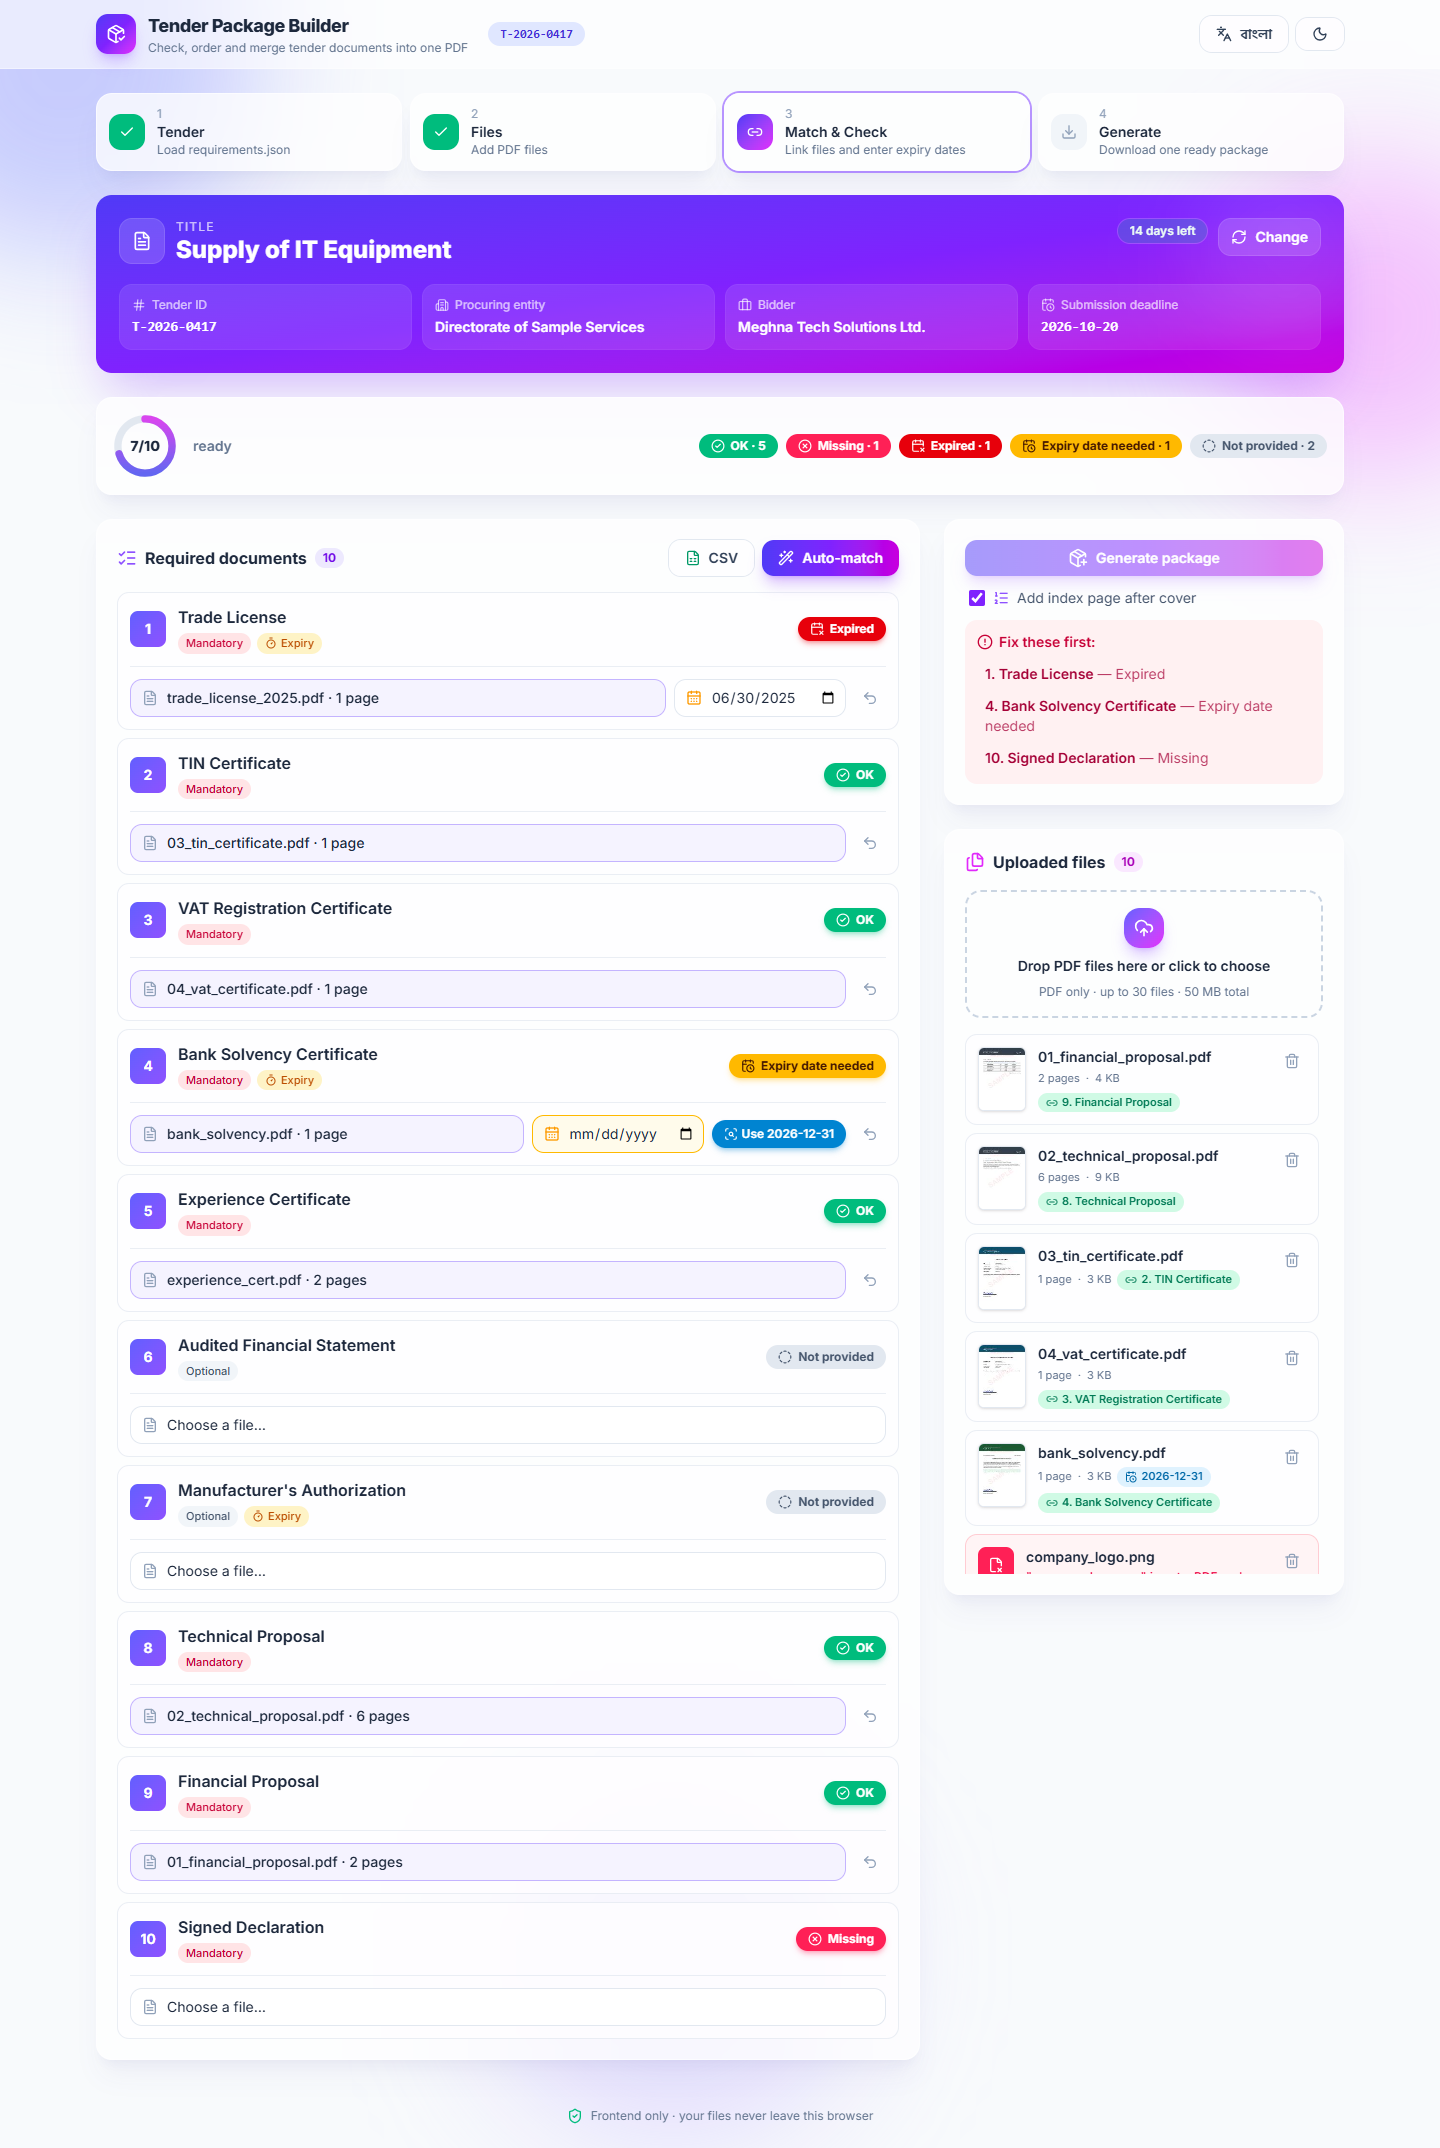
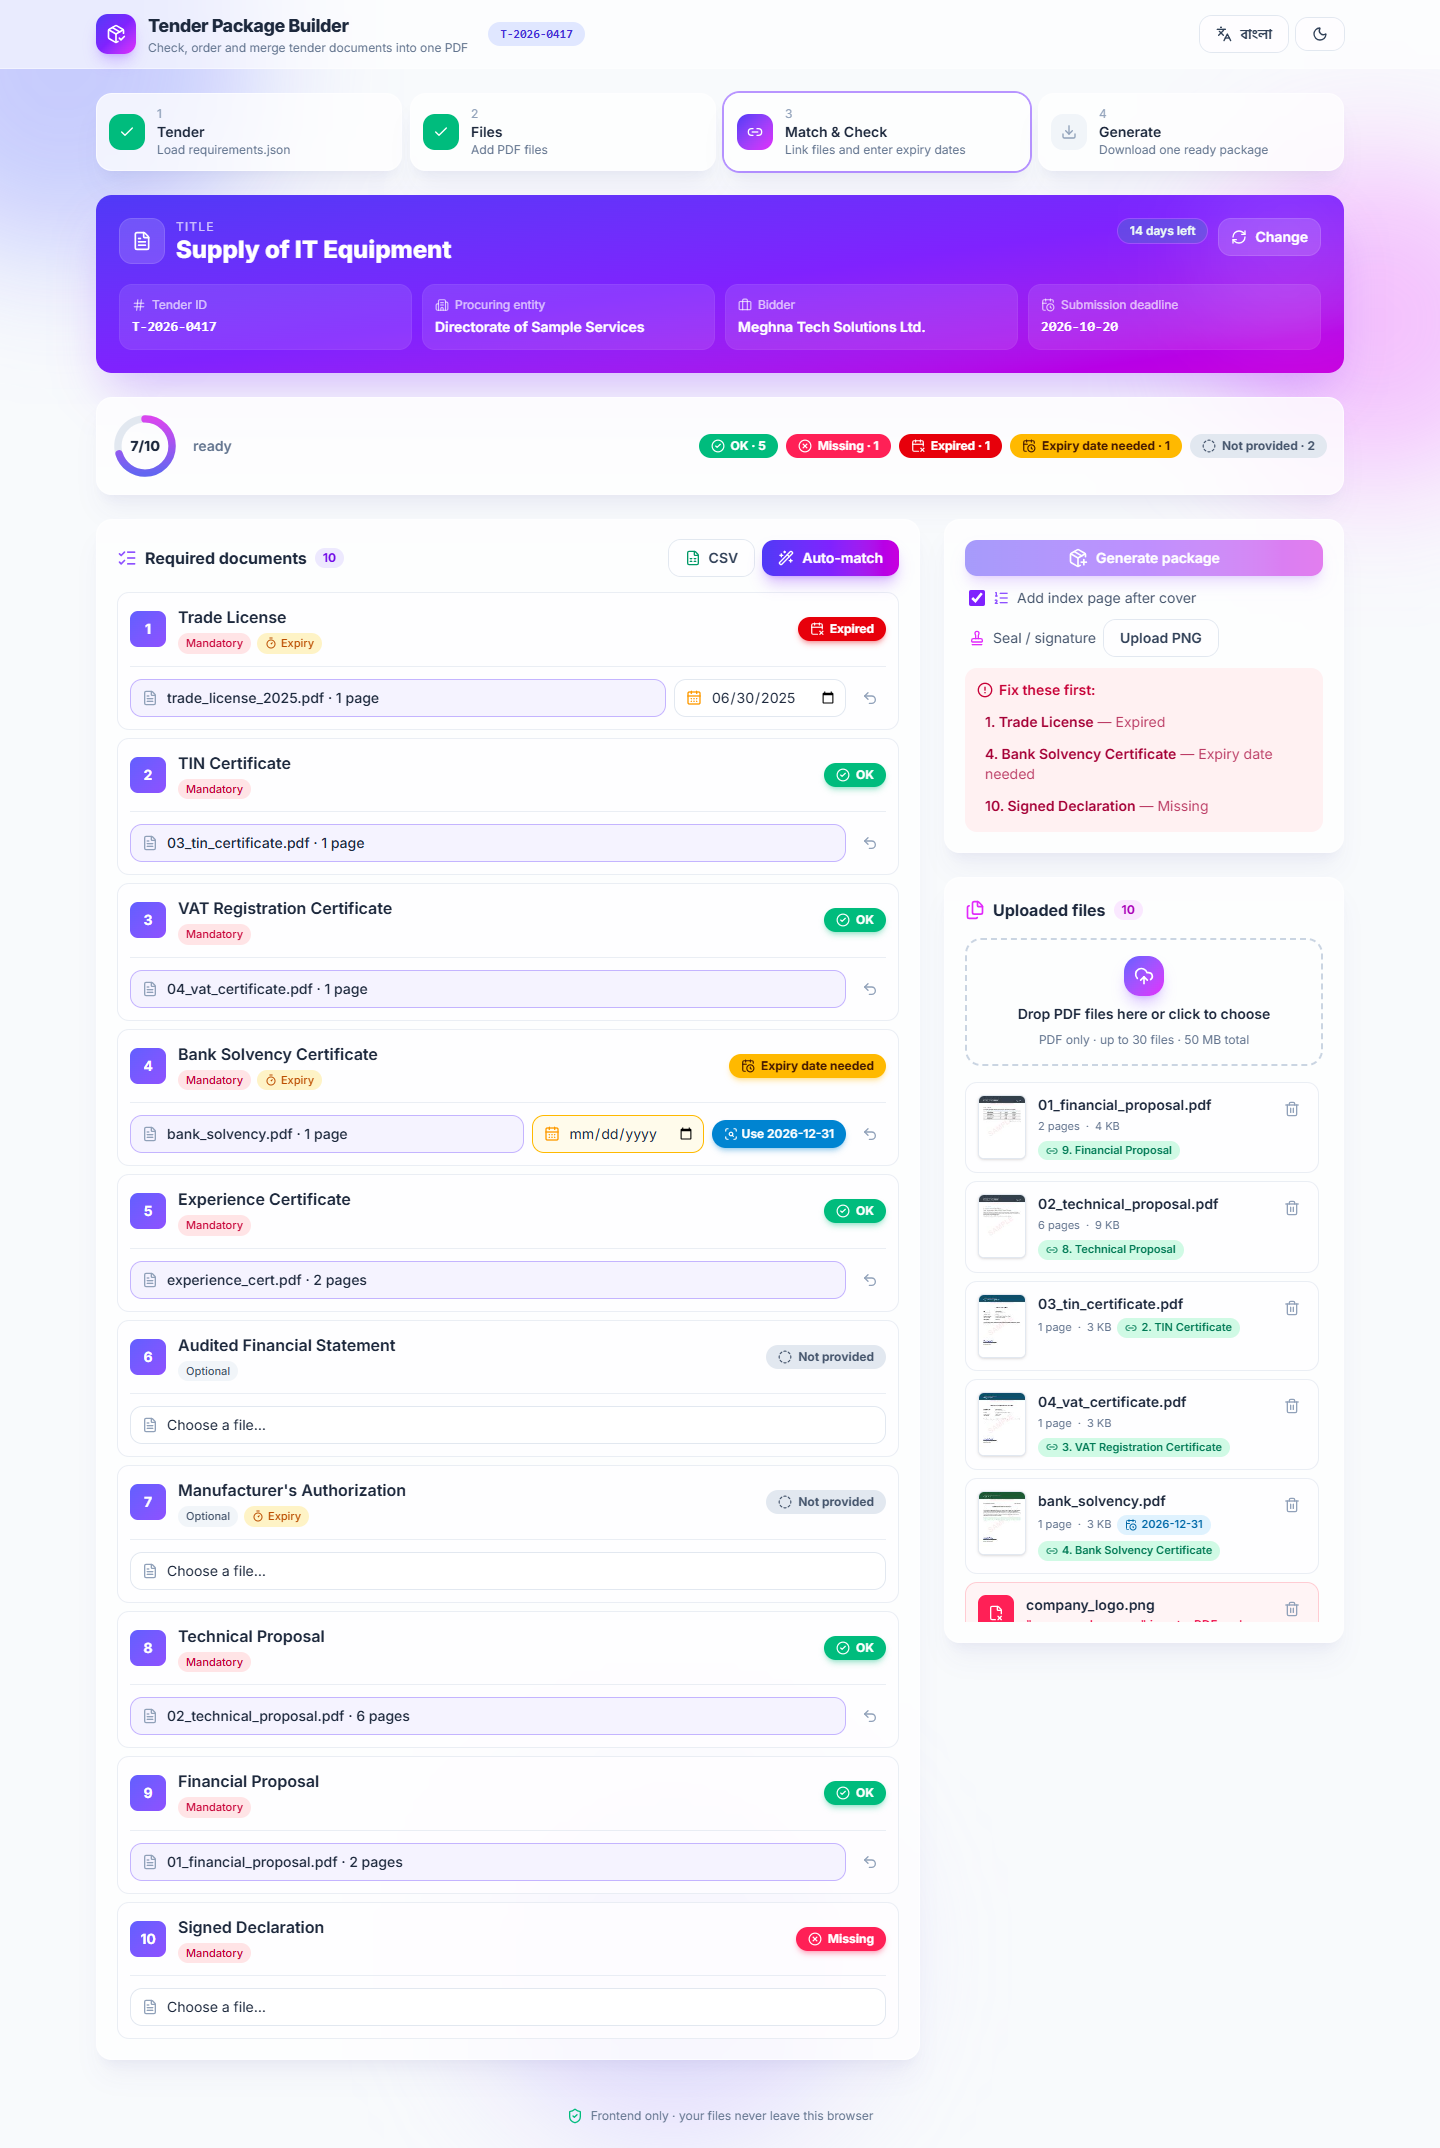
feat: bonus seal/signature - upload PNG (signature-checked), place on last page of each document / all pages / none, bottom-right above footer; screenshots retaken
Prompt: "next" (Bonus: Seal or signature - the user uploads a PNG image and places it on chosen pages)

Changed region(s): [[0.6562, 0.2807, 0.875, 0.7798]]

diff --git a/src/components/GeneratePanel.jsx b/src/components/GeneratePanel.jsx
@@ -1,7 +1,7 @@
-import { AlertCircle, CheckCircle2, Download, Eye, ListOrdered, Loader2, PackageCheck, PackagePlus } from 'lucide-react'
+import { AlertCircle, CheckCircle2, Download, Eye, ListOrdered, Loader2, PackageCheck, PackagePlus, Stamp, X } from 'lucide-react'
 import { useT } from '../i18n.js'
 
-export default function GeneratePanel({ blocked, statuses, busy, result, fileName, onGenerate, onDownload, onPreview, withIndex, onWithIndex }) {
+export default function GeneratePanel({ blocked, statuses, busy, result, fileName, onGenerate, onDownload, onPreview, withIndex, onWithIndex, seal, sealMode, onSeal, onSealMode, onSealRemove }) {
   const { t, lang, num } = useT()
   const ready = blocked.length === 0
 
@@ -22,6 +22,34 @@ export default function GeneratePanel({ blocked, statuses, busy, result, fileNam
         <ListOrdered className="size-4 text-violet-500" />
         {t('withIndex')}
       </label>
+
+      <div className="flex flex-wrap items-center gap-2 rounded-xl px-1 text-sm text-slate-600 dark:text-slate-300">
+        <Stamp className="size-4 text-fuchsia-500" />
+        <span>{t('seal')}</span>
+        {seal ? (
+          <>
+            <img src={seal.url} alt={seal.name} className="h-8 w-8 rounded border border-slate-200 bg-white object-contain dark:border-slate-600" />
+            <select
+              value={sealMode}
+              onChange={(e) => onSealMode(e.target.value)}
+              className="cursor-pointer rounded-lg border border-slate-200 bg-white px-2 py-1 text-xs dark:border-slate-700 dark:bg-slate-900"
+              aria-label={t('sealPages')}
+            >
+              <option value="last">{t('sealLast')}</option>
+              <option value="all">{t('sealAll')}</option>
+              <option value="none">{t('sealNone')}</option>
+            </select>
+            <button onClick={onSealRemove} className="cursor-pointer rounded p-1 text-slate-400 hover:text-rose-600" title={t('remove')} aria-label={t('remove')}>
+              <X className="size-4" />
+            </button>
+          </>
+        ) : (
+          <label className="btn-ghost cursor-pointer px-2.5 py-1 text-xs">
+            {t('sealUpload')}
+            <input type="file" accept="image/png" hidden onChange={(e) => { e.target.files[0] && onSeal([e.target.files[0]]); e.target.value = '' }} />
+          </label>
+        )}
+      </div>
 
       {!ready ? (
         <div className="rounded-xl bg-rose-50 p-3 text-sm dark:bg-rose-500/10">

diff --git a/src/lib/package.js b/src/lib/package.js
@@ -153,7 +153,7 @@ function drawFooter(page, font, text) {
  * withIndex: add an index page after the cover (bonus).
  * Returns { bytes: Uint8Array, totalPages }.
  */
-export async function buildPackage({ tender, requirements, matches, files, generatedOn, withIndex = false, textImage }) {
+export async function buildPackage({ tender, requirements, matches, files, generatedOn, withIndex = false, textImage, seal }) {
   const docs = includedDocs(requirements, matches, files)
   const pdf = await PDFDocument.create()
   pdf.setTitle(`${tender.tender_id} Package`)
@@ -193,6 +193,9 @@ export async function buildPackage({ tender, requirements, matches, files, gener
 
   // Each source page is embedded and scaled into a page of the same size,
   // leaving a blank band at the bottom so the footer never covers content.
+  // Bonus: seal / signature PNG on chosen pages (seal = { bytes, mode: 'all' | 'last' })
+  const sealImg = seal?.bytes && seal.mode !== 'none' ? await pdf.embedPng(seal.bytes) : null
+
   for (const { file } of docs) {
     const src = await PDFDocument.load(file.bytes, { ignoreEncryption: true })
     const embedded = await pdf.embedPages(src.getPages())
@@ -212,6 +215,12 @@ export async function buildPackage({ tender, requirements, matches, files, gener
       else if (angle === 180) page.drawPage(ep, { x: x0 + dw, y: y0 + dh, xScale: s, yScale: s, rotate: { type: 'degrees', angle: 180 } })
       else if (angle === 90) page.drawPage(ep, { x: x0, y: y0 + dh, xScale: s, yScale: s, rotate: { type: 'degrees', angle: -90 } })
       else page.drawPage(ep, { x: x0 + dw, y: y0, xScale: s, yScale: s, rotate: { type: 'degrees', angle: 90 } })
+
+      if (sealImg && (seal.mode === 'all' || i === embedded.length - 1)) {
+        const sw = Math.min(90, w * 0.18)
+        const sh = (sealImg.height / sealImg.width) * sw
+        page.drawImage(sealImg, { x: w - sw - 36, y: FOOTER_BAND + 14, width: sw, height: sh, opacity: 0.92 })
+      }
     })
   }
 

diff --git a/src/App.jsx b/src/App.jsx
@@ -108,14 +108,22 @@ export default function App() {
   const [generating, setGenerating] = useState(false)
   const [withIndex, setWithIndex] = useState(true)
   const [showPreview, setShowPreview] = useState(false)
-  useEffect(() => setResult(null), [data, files, matches, expiry, withIndex])
+  const [seal, setSeal] = useState(null) // { bytes, url, name }
+  const [sealMode, setSealMode] = useState('last')
+  const pickSeal = async ([file]) => {
+    const bytes = new Uint8Array(await file.arrayBuffer())
+    const isPng = [0x89, 0x50, 0x4e, 0x47].every((b, i) => bytes[i] === b)
+    if (!isPng) return toast('error', t('sealNotPng', { name: file.name }))
+    setSeal({ bytes, name: file.name, url: URL.createObjectURL(file) })
+  }
+  useEffect(() => setResult(null), [data, files, matches, expiry, withIndex, seal, sealMode])
   const packageName = data ? `${data.tender.tender_id}_Package.pdf` : ''
 
   const generate = async () => {
     if (blocked.length) return
     setGenerating(true)
     try {
-      const res = await buildPackage({ ...data, matches, files, generatedOn: todayISO(), withIndex, textImage })
+      const res = await buildPackage({ ...data, matches, files, generatedOn: todayISO(), withIndex, textImage, seal: seal && { bytes: seal.bytes, mode: sealMode } })
       setResult(res)
       toast('success', t('generated', { n: res.totalPages }))
     } catch (e) {
@@ -291,6 +299,11 @@ export default function App() {
                   onGenerate={generate}
                   withIndex={withIndex}
                   onWithIndex={setWithIndex}
+                  seal={seal}
+                  sealMode={sealMode}
+                  onSeal={pickSeal}
+                  onSealMode={setSealMode}
+                  onSealRemove={() => setSeal(null)}
                   onDownload={() => downloadBytes(result.bytes, packageName)}
                   onPreview={() => setShowPreview(true)}
                 />

diff --git a/src/i18n.js b/src/i18n.js
@@ -102,6 +102,7 @@ export const dict = {
     sealAll: 'All pages',
     sealLast: 'Last page of each document',
     sealNone: 'None',
+    sealNotPng: '"{name}" is not a PNG image.',
     reset: 'Start over',
   },
   bn: {
@@ -199,6 +200,7 @@ export const dict = {
     sealAll: 'সব পৃষ্ঠায়',
     sealLast: 'প্রতিটি কাগজের শেষ পৃষ্ঠায়',
     sealNone: 'কোথাও না',
+    sealNotPng: '"{name}" PNG ছবি নয়।',
     reset: 'নতুন করে শুরু',
   },
 }

diff --git a/README.md b/README.md
@@ -67,6 +67,7 @@ Handy URL parameters: `?lang=bn|en`, `?theme=dark|light`, `?sample=1` (auto-load
   - When two files fit the same document, Auto-match prefers the one that is still valid (so `trade_license_2026` wins over the expired 2025 one).
 - **✨ Auto-match:** one click suggests matches from the file names. It uses keywords and synonyms from `title_en` (trade/licence, tin/tax, vat/bin, solvency/bank and so on), prefers the newer year (`_2026` over `_2025`) and the original over a `(1)` copy, never uses two duplicates, and fills only documents that are still empty. An **Undo** button restores the previous matches.
 - **Bangla text on the PDF:** the index page shows each document's Bangla name (`title_bn`) under the English one and a "সূচিপত্র" heading. Bangla in tender fields (title, entity, bidder) also prints correctly on the cover. The browser draws the text on a canvas, so conjuncts such as ন্স, ক্ষ and ত্র are shaped correctly, and the image is embedded with pdf-lib.
+- **Seal / signature:** in the Generate panel, upload a PNG (checked by its PNG signature) and choose where it goes: the last page of each document, all document pages, or none. It is placed at the bottom-right, above the footer band, so it does not cover the footer.
 - **Index page after the cover:** lists each document with its page range and the page where it starts, with dotted leaders. It is on by default and can be turned off with a checkbox. The cover table also shows the start pages.
 - **Export checklist (CSV):** the CSV button downloads `<tender_id>_Checklist.csv` with Order, Document, Mandatory, File name, Pages, Expiry date and Status, in the chosen language. It has a UTF-8 BOM so Excel shows Bangla correctly.
 - **Wrong-file warning:** when a file's name or text clearly belongs to another document (for example `trade_license_2025.pdf` matched to TIN Certificate), a soft amber warning appears. The status still follows Section 5 exactly.

diff --git a/Prompt.md b/Prompt.md
@@ -17,5 +17,6 @@
 | B4 | Smart Read | "ami chassi 1 number ta korte" (Smart Read: read PDF text to detect document type and expiry date, used by auto-match and one-click date suggestions) |
 | B5 | Thumbnails | "tmi add koro" (page-1 thumbnails in the file list) |
 | B6 | Bangla on PDF | "next" (Bangla text shown correctly on the PDF cover/index page) |
+| B7 | Seal / signature | "next" (Bonus: seal or signature - user uploads a PNG image and places it on chosen pages) |
 
 Most useful prompt (for README): _to be chosen at the end._
